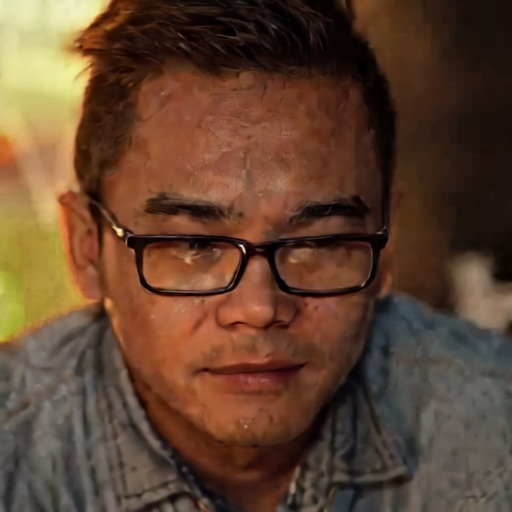
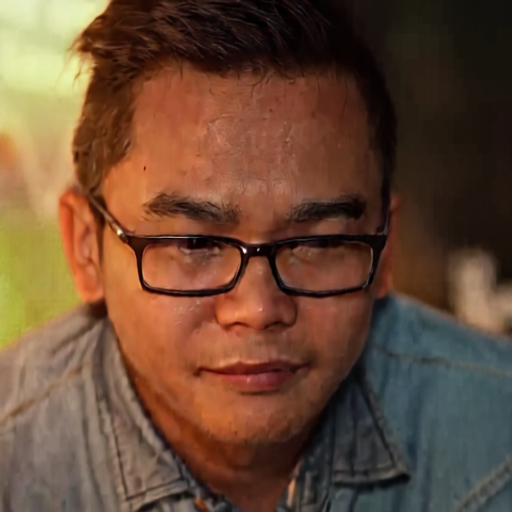
update

diff --git a/lav_wan_relight.py b/lav_wan_relight.py
@@ -251,8 +251,8 @@ def main(args):
             save_frame = frames[0]
             save_frame_path = os.path.splitext(results_path)[0] + ".png"
             
-            # save_frame = Image.fromarray(np.uint8(save_frame))
-            # save_frame = save_frame.resize((512, 512))
+            save_frame = Image.fromarray(np.uint8(save_frame))
+            save_frame = save_frame.resize((512, 512))
             
             imageio.imwrite(save_frame_path, save_frame)
             print(f"Frame saved as PNG: {save_frame_path}")
